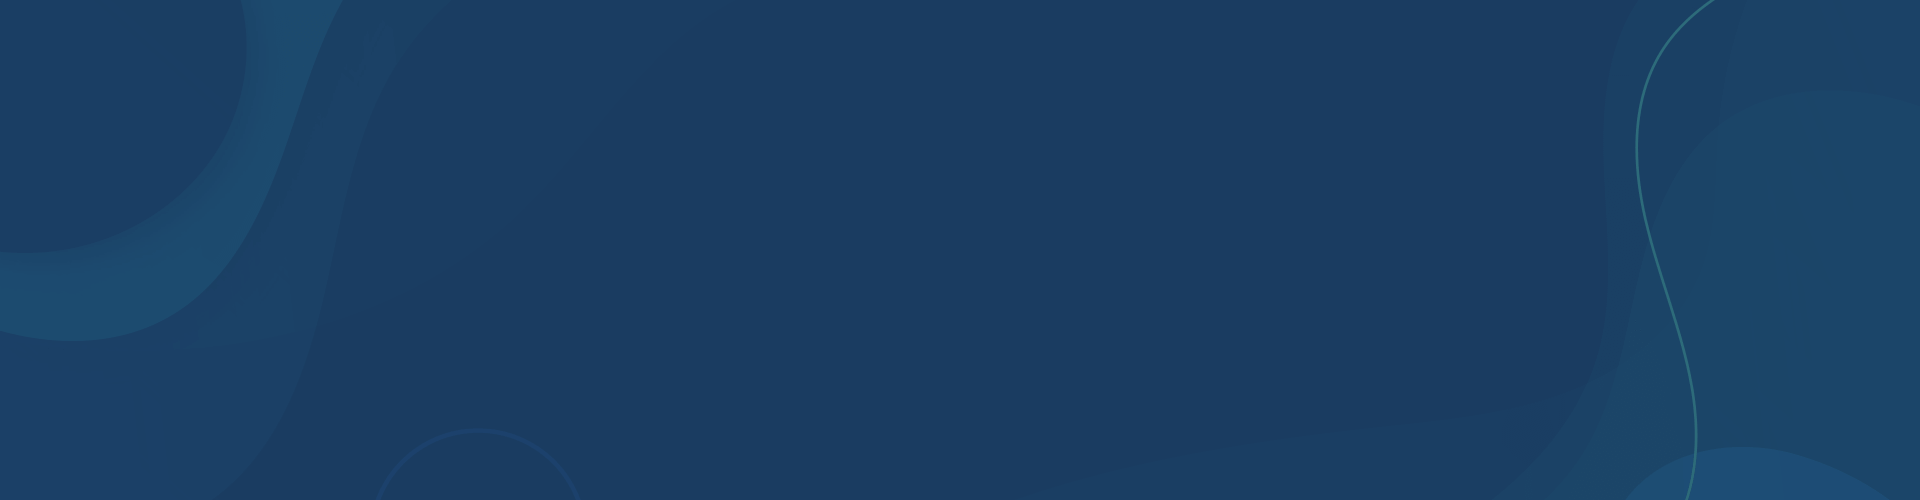
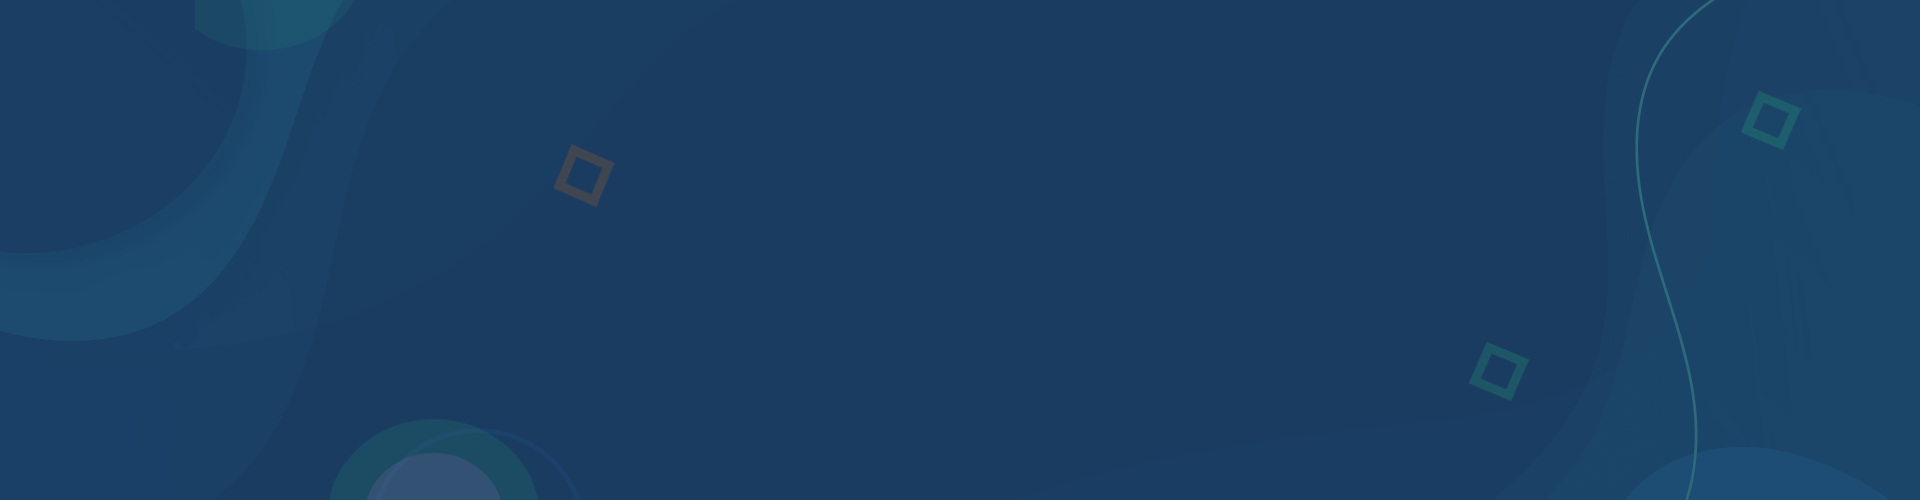
edit img source

diff --git a/index-cleverlab.html b/index-cleverlab.html
@@ -98,7 +98,7 @@
     ============================================= -->
     <div class="banner-area bg-top text-capitalized text-center top-pad-80 auto-height">
         <!-- Shape -->
-        <div class="banner-shape" style="background-image: url(assets/img/shape/2.png);"></div>
+        <div class="banner-shape" style="background-image: url(assets/img/shape/2-1.png);"></div>
         <!-- End Shape -->
         <div class="container">
             <div class="content-box" style="padding-top: 50px;">
@@ -116,10 +116,8 @@
                     </div>
                 </div>
                 <div class="col-lg-12">
-                    <div class="thumb-inner" style="margin-top: 40px;">
-                        <div style="width:1080px; height: 640px; 
-                            border-radius:32px; overflow: hidden;
-                            box-shadow: 0px 3px 32px 3px #00897B66; ">
+                    <div class="thumb-inner">
+                        <div class="video-area">
                             <video width="1080px" height="640px" autoplay loop muted style="position: relative;">
                                 <source src="assets/img/movie/main-banner.mp4" type="video/mp4">
                             </video>
@@ -128,7 +126,8 @@
                             alt="Thumb">
                         <img class="wow fadeInRight" data-wow-delay="900ms" src="assets/img/main-banner-img-2.png"
                             alt="Thumb">
-                        <div class="shape-circle wow fadeInLeft" data-wow-delay="1500ms"></div>
+                        <!-- <img class="wow fadeInRight" data-wow-delay="900ms" src="assets/img/shape/40.png"> -->
+                        <!-- <div class="shape-circle wow fadeInLeft" data-wow-delay="1500ms"></div> -->
                     </div>
                 </div>
             </div>
@@ -331,7 +330,7 @@
     <div id="features" class="advanced-features-area bg-cover default-padding"
         style="background-image: url(assets/img/shape/34-2.png); margin-bottom: 60px;">
         <!-- Shape -->
-        <div class="bottom-shape" style="background-image: url(assets/img/shape/24.png);"></div>
+        <!-- <div class="bottom-shape" style="background-image: url(assets/img/shape/16.png);"></div> -->
         <!-- Shape -->
         <div class="container">
             <div class="row">

diff --git a/assets/css/style.css b/assets/css/style.css
@@ -1450,23 +1450,30 @@ body,
 	padding-right: 10%;
 }
 
-.banner-area.auto-height .content-box .thumb-inner {
-	margin-bottom: -50px;
-	padding-bottom: 50px;
-	margin-top: 100px;
-	position: relative;
-	padding-right: 100px;
-}
-
 .banner-area.bg-top {
 	padding-bottom: 50px;
 	margin-bottom: -50px;
 }
 
+.banner-area.auto-height .content-box .thumb-inner {
+	margin-top: 40px;
+	position: relative;
+	text-align: center;
+}
+
+.banner-area.auto-height .content-box .thumb-inner .video-area {
+	width: 1080px;
+	height: 640px;
+	border-radius: 32px;
+	overflow: hidden;
+	box-shadow: 0px 3px 32px 3px #00897B66;
+	display: inline-block
+}
+
 .banner-area.auto-height .content-box .thumb-inner img:nth-child(2) {
 	position: absolute;
-	right: -80px;
-	top: 380px;
+	right: -120px;
+	top: 400px;
 	max-width: 350px;
 	box-shadow: 0 0 10px #cccccc;
 	border-radius: 10px;
@@ -1475,13 +1482,35 @@ body,
 
 .banner-area.auto-height .content-box .thumb-inner img:nth-child(3) {
 	position: absolute;
-	left: -100px;
+	left: -50px;
 	top: 30px;
 	max-width: 350px;
 	box-shadow: 0 0 10px #cccccc;
 	border-radius: 10px;
 	border: none !important;
 }
+
+/* .banner-area.auto-height .content-box .thumb-inner img:nth-child(4) {
+	position: absolute;
+	right: -120px;
+	top: -120px;
+	height: 500px;
+	width: 500px;
+	z-index: -1;
+} */
+
+/* .banner-area .thumb-inner .shape-circle {
+	position: absolute;
+	right: -120px;
+	top: -120px;
+	content: "";
+	height: 500px;
+	width: 500px;
+	border: 80px solid var(--color-primary);
+	z-index: -1;
+	border-radius: 50%;
+	opacity: 1;
+} */
 
 .banner-area h2 {
 	font-size: 45px;
@@ -4266,6 +4295,13 @@ ul.achivement li .medium {
 .team-area .team-items .social label i {
 	transform: rotate(45deg);
 }
+
+.team-area h4 {
+	text-transform: capitalize;
+	font-weight: 600;
+	color: var(--color-primary);
+}
+
 
 .share-button i {
 	transition: .3s ease;
